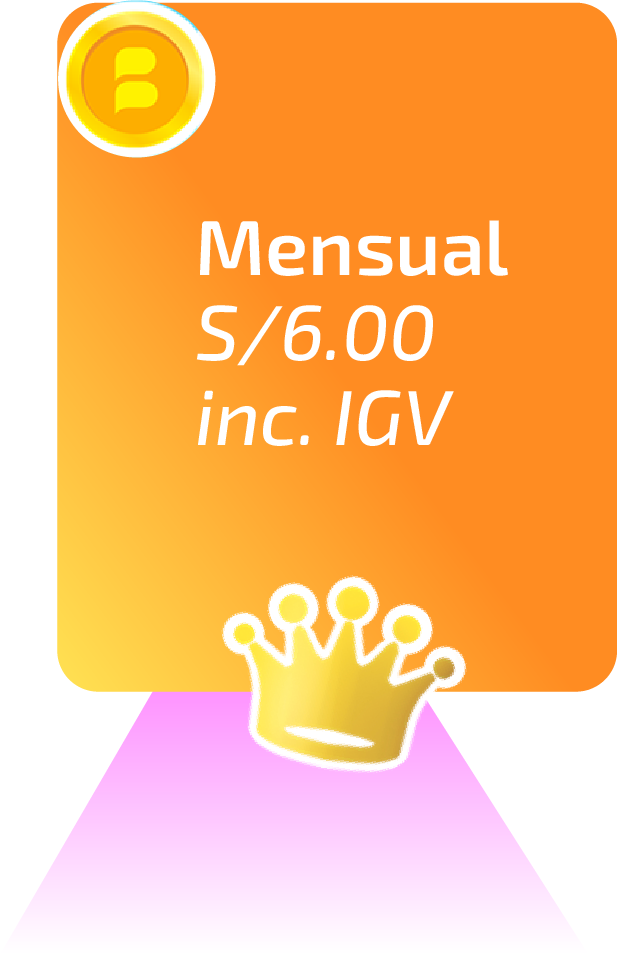
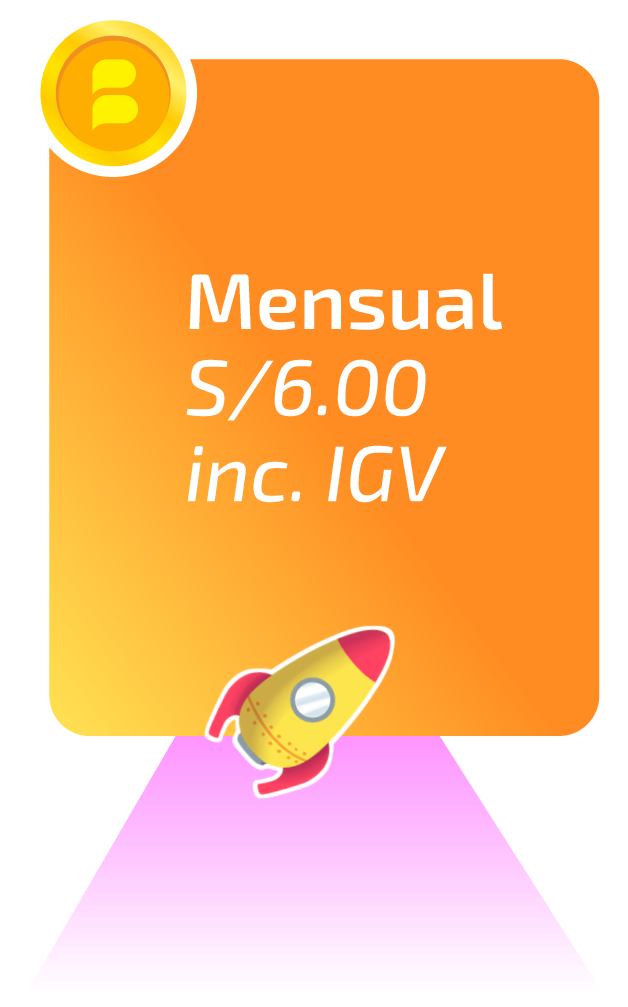
Se quitan las coronas

Changed region(s): [[0.0616, 0.0, 1.0, 0.9423], [0.2771, 0.2128, 0.8314, 0.5168]]

diff --git a/index.html b/index.html
@@ -110,7 +110,6 @@
             <img class="dimon1 img-fluid" src="img/dimon1.png" alt="">
             <img class="cohete1 img-fluid" src="img/cohete.png" alt="">  
             <img class="planet04 img-fluid" src="img/planet04.png" alt="">
-            <img class="corona01 img-fluid" src="img/corona1.png" alt="" style="width: 60px;">
             <img class="bell01 img-fluid" src="img/bell1.png" alt=""> 
             <div class="burbuja">
               <p>Aventúrate con Cuysito<br>
@@ -581,7 +580,6 @@
             <img class="starPa" src="img/star1.png" alt="">
             <img class="dimonF" src="img/dimon1.png" alt="">
             <img class="starPb" src="img/star1.png" alt="">
-            <img class="coronaP" src="img/corona1.png" alt="">
             <h2 class="text-center">¡Conoce los paquetes<br>
               que tenemos para ti!</h2>
           </div>
@@ -598,28 +596,28 @@
                 </div>
                 <div class="paqueteMonedas">
                   <p class="text-center">Elige tu paquete preferido</p>
-                    <div class="secPaqCom">
+                    <div class="secPaqCom btnModal" data-bs-toggle="modal" data-bs-target=".InformaciónCompra">
                       <div class="d-flex paqueteValoresB">
                         <div class="valorA">BT1</div>
                         <div class="valorB">= 80 <img class="valorMoneda" src="img/listaMoneda.png" alt=""></div>
                       </div>
                       <div class="circleValor" style="color:#0DBEA3;"><p class="text-center">S/1</p></div>
                     </div>
-                    <div class="secPaqCom">
+                    <div class="secPaqCom btnModal" data-bs-toggle="modal" data-bs-target=".InformaciónCompra">
                       <div class="d-flex paqueteValoresB">
                         <div class="valorA">BT3</div>
                         <div class="valorB">= 250 <img class="valorMoneda" src="img/listaMoneda.png" alt=""></div>
                       </div>
                       <div class="circleValor" style="color:#0DBEA3;"><p class="text-center">S/3</p></div>
                     </div>
-                    <div class="secPaqCom">
+                    <div class="secPaqCom btnModal" data-bs-toggle="modal" data-bs-target=".InformaciónCompra">
                       <div class="d-flex paqueteValoresB">
                         <div class="valorA">BT5</div>
                         <div class="valorB">= 450 <img class="valorMoneda" src="img/listaMoneda.png" alt=""></div>
                       </div>
                       <div class="circleValor" style="color:#0DBEA3;"><p class="text-center">S/5</p></div>
                     </div>
-                    <div class="secPaqCom">
+                    <div class="secPaqCom btnModal" data-bs-toggle="modal" data-bs-target=".InformaciónCompra">
                       <div class="d-flex paqueteValoresB">
                         <div class="valorA">BT8</div>
                         <div class="valorB">= 700 <img class="valorMoneda" src="img/listaMoneda.png" alt=""></div>
@@ -641,7 +639,7 @@
                 <div class="paqueteVidas">
                   <p class="text-center">¡Escoge un paquete de<br>
                     diamantes y mejora tu nave!</p>
-                  <div class="secPaqCom">
+                  <div class="secPaqCom btnModal" data-bs-toggle="modal" data-bs-target=".InformaciónCompra">
                     <div class="d-flex paqueteValoresC">
                       <div class="valorA">BAD1</div>
                       <div class="valorB">= 20 <img class="valorMoneda" src="img/listaDiamantes.png" alt=""></div>
@@ -649,14 +647,14 @@
                     <div class="circleValor "><p class="text-center">S/1</p></div>
                   </div>
                   <div class="secPaqCom">
-                    <div class="d-flex paqueteValoresC">
+                    <div class="d-flex paqueteValoresC btnModal" data-bs-toggle="modal" data-bs-target=".InformaciónCompra">
                       <div class="valorA">BAD3</div>
                       <div class="valorB">= 60 <img class="valorMoneda" src="img/listaDiamantes.png" alt=""></div>
                     </div>
                     <div class="circleValor "><p class="text-center">S/3</p></div>
                   </div>
                   <div class="secPaqCom">
-                    <div class="d-flex paqueteValoresC">
+                    <div class="d-flex paqueteValoresC btnModal" data-bs-toggle="modal" data-bs-target=".InformaciónCompra">
                       <div class="valorA">BAD5</div>
                       <div class="valorB">= 100 <img class="valorMoneda" src="img/listaDiamantes.png" alt=""></div>
                     </div>
@@ -677,7 +675,7 @@
                 <div class="paqueteDiamantes">
                   <p class="text-center">¡Adquiere vidas para seguir<br>
                     jugando Bitel Aventuras 2!</p>
-                    <div class="secPaqCom">
+                    <div class="secPaqCom btnModal" data-bs-toggle="modal" data-bs-target=".InformaciónCompra">
                       <a href="">
                         <div class="d-flex paqueteValoresA">
                           <div class="valorA">BAV1</div>
@@ -686,7 +684,7 @@
                         <div class="circleValor"  style="color: #00C9E6;"><p class="text-center">S/1</p></div>
                       </a>
                     </div>
-                    <div class="secPaqCom">
+                    <div class="secPaqCom btnModal" data-bs-toggle="modal" data-bs-target=".InformaciónCompra">
                       <a href="">
                         <div class="d-flex paqueteValoresA">
                           <div class="valorA">BAV3</div>
@@ -696,7 +694,7 @@
                       </a>
                     </div>   
 
-                    <div class="secPaqCom">
+                    <div class="secPaqCom btnModal" data-bs-toggle="modal" data-bs-target=".InformaciónCompra">
                       <a href="">
                         <div class="d-flex paqueteValoresA">
                           <div class="valorA">BAV5</div>

diff --git a/css/style.css b/css/style.css
@@ -578,9 +578,8 @@ body{
     font-weight: bold;
     font-size: 23px;
     line-height: 28px;
-    text-align: left;
     position: relative;
-    padding-left: 36px;
+
     margin: 20px 0 10px;
 }
 
@@ -592,22 +591,8 @@ body{
     background-position: center;
     background-size: 300px;
     padding-top: 80px;
-
 }
 
-.BtnPremium::before{
-    content: '';
-    background-image: url(../img/corona1.png);
-    background-size: 65px;
-    background-repeat: no-repeat;
-    right: -20px;
-    height: 80px;
-    width: 80px;
-    position: absolute;
-    top: -8px;
-    rotate: 20deg;
-    text-transform: uppercase;
-}
 
 .BtnPremium:hover{
     background: linear-gradient( #00c5e3 100%, #008ea3 0%);
